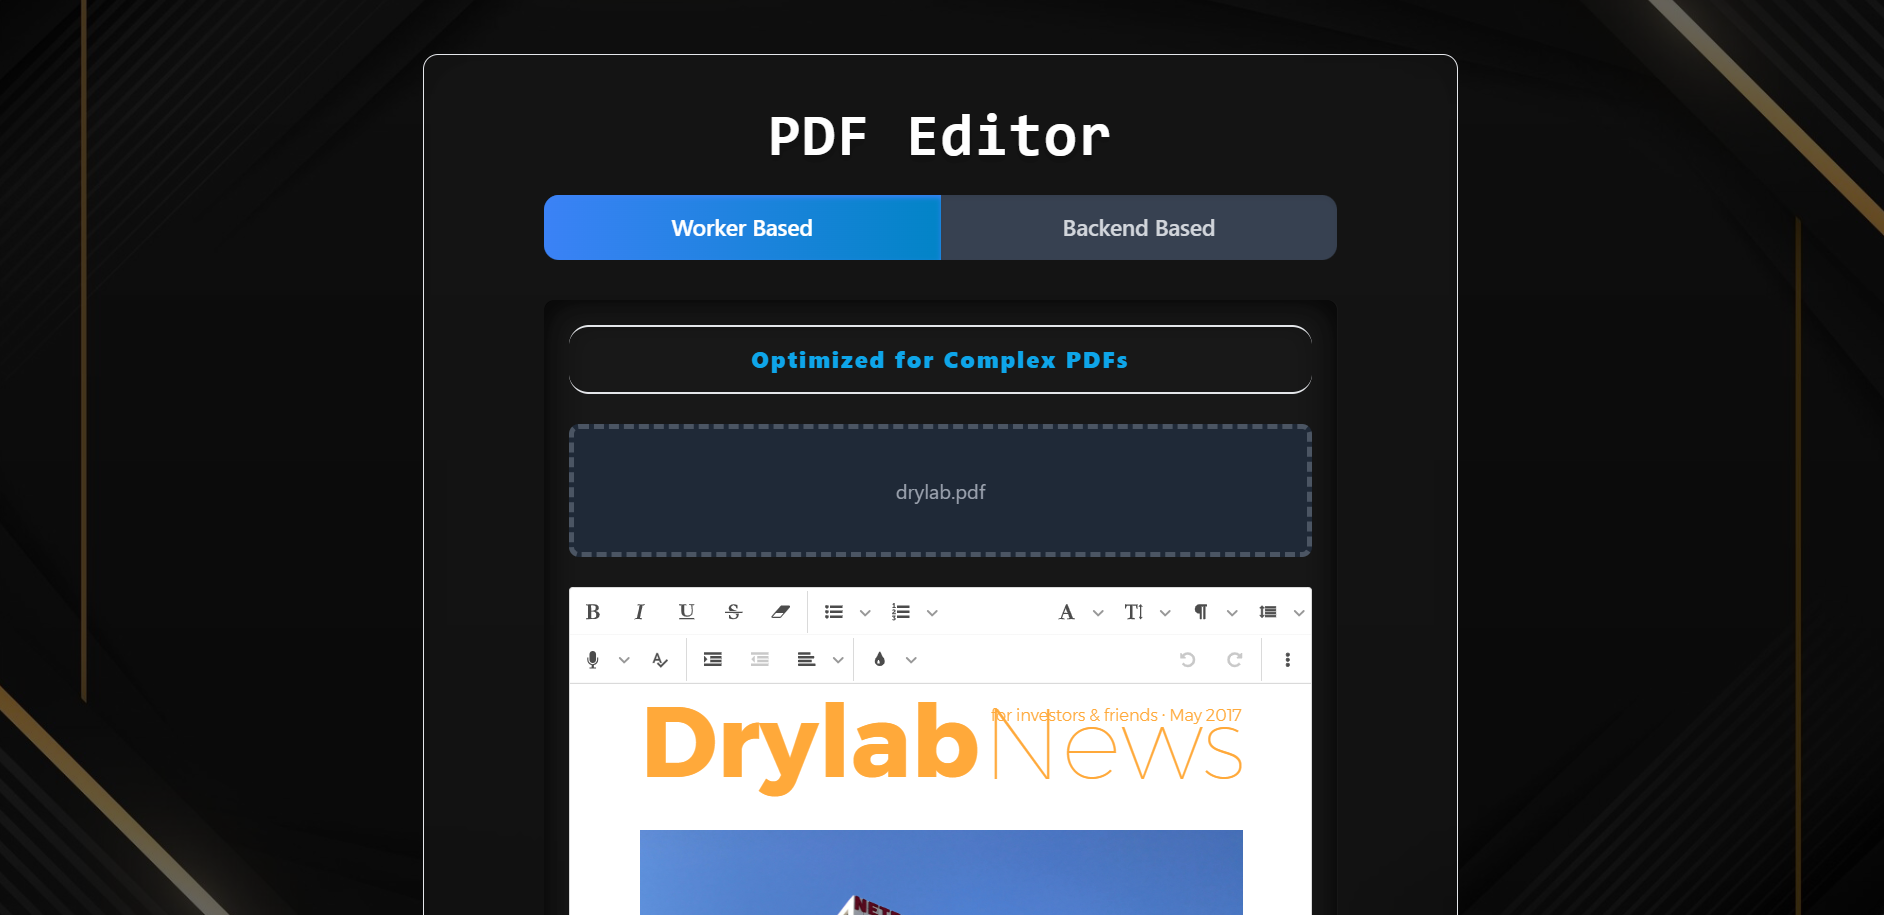
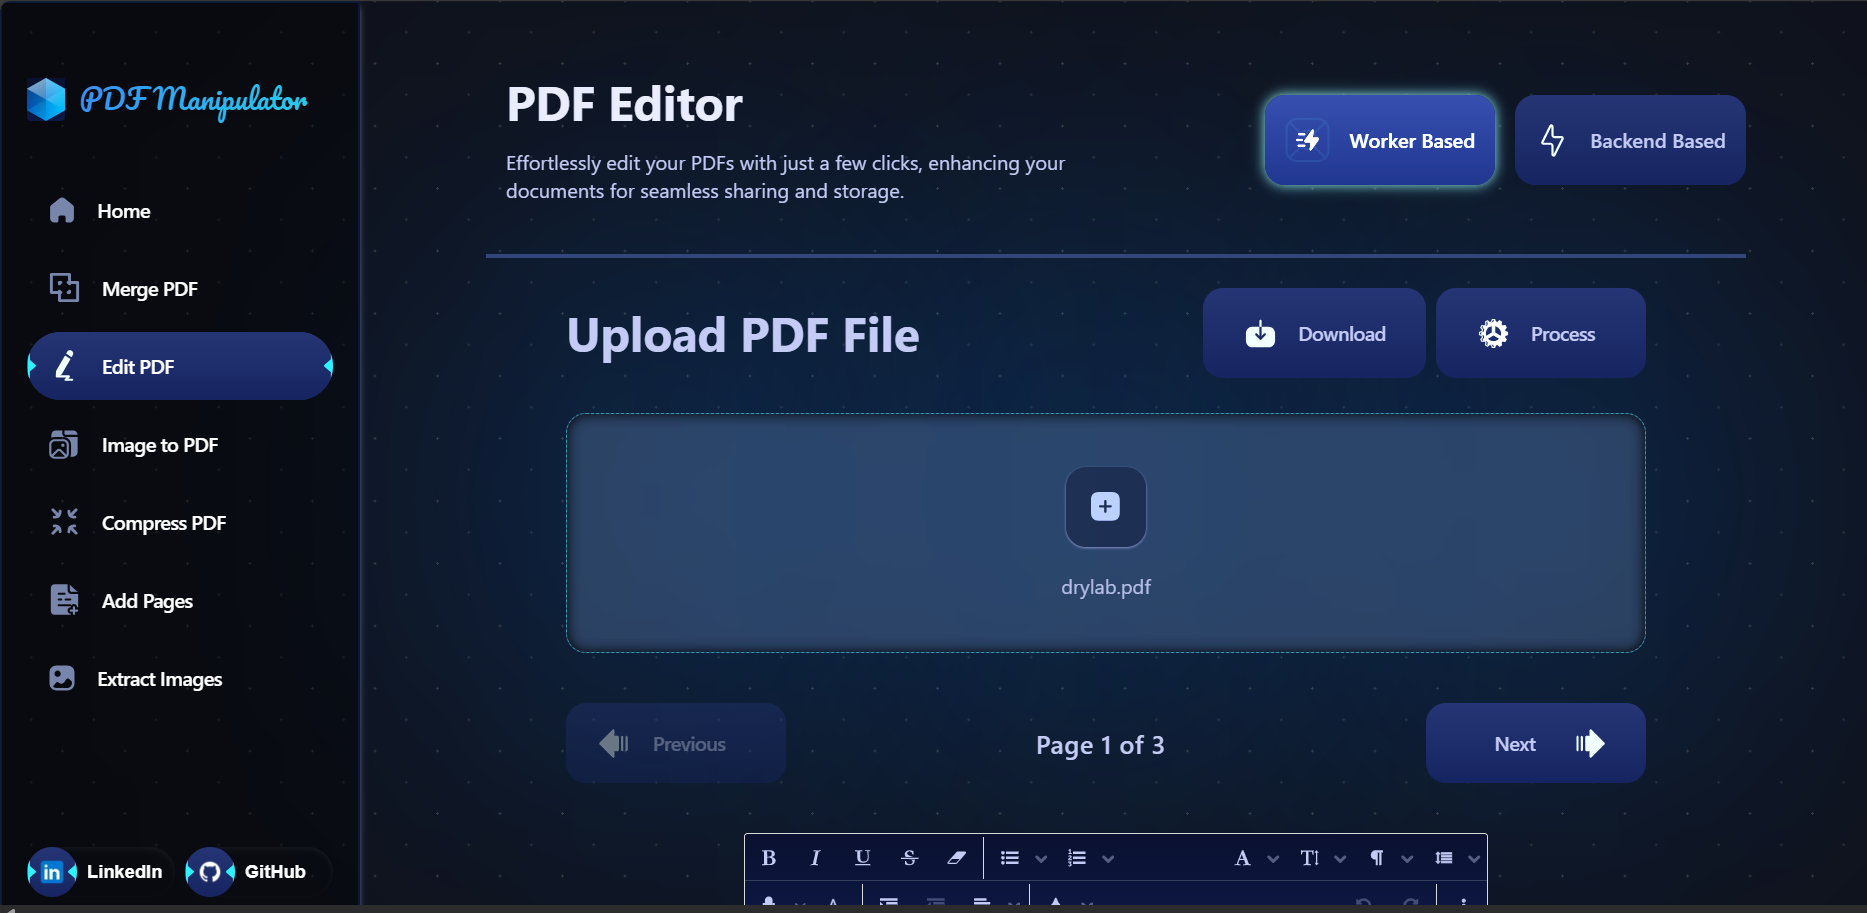
changed look of edit pdf Complx mode (Worker Based) and added live image also fixed a bug

diff --git a/components/Core/PDFEditor/PDFEditorComplex.jsx b/components/Core/PDFEditor/PDFEditorComplex.jsx
@@ -1,94 +1,12 @@
 import React, { useEffect, useRef, useState } from 'react';
 import dynamic from 'next/dynamic';
 const JoditEditor = dynamic(() => import('jodit-react'), { ssr: false });
-import "jodit";
 import * as pdfjsLib from 'pdfjs-dist/webpack';
 import jsPDF from 'jspdf';
 import html2canvas from 'html2canvas';
 import { useToast } from '../../../hooks/use-toast';
 import Image from 'next/image';
 
-const copyStringToClipboard = function(str) {
-  var el = document.createElement("textarea");
-  el.value = str;
-  el.setAttribute("readonly", "");
-  el.style = { position: "absolute", left: "-9999px" };
-  document.body.appendChild(el);
-  el.select();
-  document.execCommand("copy");
-  document.body.removeChild(el);
-};
-
-
-const buttons = [
-  "undo",
-  "redo",
-  "|",
-  "bold",
-  "strikethrough",
-  "underline",
-  "italic",
-  "|",
-  "superscript",
-  "subscript",
-  "|",
-  "align",
-  "|",
-  "ul",
-  "ol",
-  "outdent",
-  "indent",
-  "|",
-  "font",
-  "fontsize",
-  "brush",
-  "paragraph",
-  "|",
-  "image",
-  "link",
-  "table",
-  "|",
-  "hr",
-  "eraser",
-  "copyformat",
-  "|",
-  "fullsize",
-  "selectall",
-  "print",
-  "|",
-  "source",
-  "|",
-  {
-    name: "copyContent",
-    tooltip: "Copy HTML to Clipboard",
-    iconURL: "images/copy.png",
-    exec: function(editor) {
-      let html = editor.value;
-      copyStringToClipboard(html);
-    }
-  }
-];
-
-const editorConfig = {
-  readonly: false,
-  toolbar: true,
-  spellcheck: true,
-  language: "en",
-  toolbarButtonSize: "medium",
-  toolbarAdaptive: false,
-  showCharsCounter: true,
-  showWordsCounter: true,
-  showXPathInStatusbar: false,
-  askBeforePasteHTML: true,
-  askBeforePasteFromWord: true,
-  //defaultActionOnPaste: "insert_clear_html",
-  buttons: buttons,
-  uploader: {
-    insertImageAsBase64URI: true
-  },
-  width: 800,
-  height: 842
-};
 const PDFEditorComplex = () => {
   const [htmlContent, setHtmlContent] = useState([]);
   const [currentPage, setCurrentPage] = useState(0);
@@ -533,15 +451,15 @@ const PDFEditorComplex = () => {
             </div>
           </div>
         </div>
-        {isContinueClicked && htmlContent.length > 0 && <div className="flex px-16  sm-320:-mt-44 sm-374:-mt-40 justify-between items-center md:mt-4 flex-col sm:flex-row">
+        {isContinueClicked && htmlContent.length > 0 && <div className="flex px-16  sm-320:-mt-44 sm-374:-mt-40 justify-between items-center md:mt-0 flex-col sm:flex-row">
           <button
             disabled={currentPage === 0}
             onClick={handlePreviousPage}
             className="flex items-center justify-normal md:justify-end disabled:opacity-40 disabled:cursor-not-allowed rounded-2xl group"
           >
-            <span className="relative min-w-32 md:min-w-48 px-4 md:px-8 flex justify-around items-center w-fit before:g7 g4 min-h-fit py-2 rounded-2xl before:absolute before:inset-0 before:opacity-0 before:transition-opacity before:duration-500 before:content-[''] group-hover:before:opacity-100 overflow-hidden">
+            <span className="relative min-w-32 md:min-w-44 px-4 md:px-6 flex justify-around items-center w-fit before:g7 g4 min-h-fit py-1 rounded-2xl before:absolute before:inset-0 before:opacity-0 before:transition-opacity before:duration-500 before:content-[''] group-hover:before:opacity-100 overflow-hidden">
               <Image
-                src={`images/process.svg`}
+                src={`images/previous.svg`}
                 alt="logo"
                 width={28}
                 height={28}
@@ -552,22 +470,23 @@ const PDFEditorComplex = () => {
               </span>
             </span>
           </button>
-          <span className="text-[16px] font-semibold text-p5 mt-2 sm:mt-0">{`Page ${currentPage + 1} of ${numPages}`}</span>
+          <span className="text-[20px] tracking-wide font-semibold text-p5 mt-2 sm:mt-0">{`Page ${currentPage + 1} of ${numPages}`}</span>
           <button
             disabled={currentPage === numPages - 1} onClick={handleNextPage}
             className="flex pl-2  items-center justify-normal md:justify-end disabled:opacity-40 disabled:cursor-not-allowed rounded-2xl group"
           >
-            <span className="relative px-4 md:px-8 min-w-32 md:min-w-48 flex justify-around items-center w-fit before:g7 g4 min-h-fit py-2 rounded-2xl before:absolute before:inset-0 before:opacity-0 before:transition-opacity before:duration-500 before:content-[''] group-hover:before:opacity-100 overflow-hidden">
+            <span className="relative px-4 md:px-6 min-w-32 md:min-w-44 flex justify-around items-center w-fit before:g7 g4 min-h-fit py-1 rounded-2xl before:absolute before:inset-0 before:opacity-0 before:transition-opacity before:duration-500 before:content-[''] group-hover:before:opacity-100 overflow-hidden">
+              <span className="font-semibold text-16 flex gap-4 p-4 pl-6 text-p5">
+                Next
+              </span>
               <Image
-                src={`images/process.svg`}
+                src={`images/next.svg`}
                 alt="logo"
                 width={28}
                 height={28}
                 className="brightness-200"
               />
-              <span className="font-semibold text-16 flex gap-4 p-4 pr-6 text-p5">
-                Next
-              </span>
+
             </span>
           </button>
         </div>}
@@ -579,42 +498,28 @@ const PDFEditorComplex = () => {
           <div className="flex justify-center items-center sm-320:scale-[49%] sm-374:scale-[57%] sm:scale-75 md:scale-[100%] lg:scale-[100%] xl:scale-[100%]">
             <JoditEditor
               ref={editorRef}
-              style={{ maxWidth: editorConfig.width, margin: "0 auto" }}
+              style={{ margin: '0 auto' }}
               value={htmlContent[currentPage]}
               config={{
-                editorConfig,
+                readonly: false,
+                toolbar: true,
+                language: 'en',
+                buttons: ["undo", "redo", "|", "bold", "strikethrough", "underline", "italic", "|", "superscript", "subscript",
+                  "|", "align", "|", "ul", "ol", "outdent", "indent", "|", "font", "fontsize", "brush",
+                  "paragraph", "|", "image", "link", "table", "|", "hr", "eraser", "copyformat",
+                  "|", "fullsize", "selectall", "print", "|", "source", "|",],
                 height: height,
                 width: width,
-                editHTMLDocumentMode: true,
-                // theme: 'dark', 
-                style: {
-                  background: 'rgba(0, 55, 155, 0.3)', 
-                  borderColor:"red",
-                  border:"1px red solid"
+                containerStyle: {
+                  '.jodit-toolbar-editor-collection': {
+                    background: 'transparent', // Make toolbar background transparent
+                  },
                 },
-                toolbarButtonSize: 'large', 
               }}
-              // style={{
-              //   display: 'block',
-              //   minHeight: '400px',
-              //   width: '100%',
-              //   padding: '10px',
-              //   // background: 'rgba(255, 255, 255, 0.5)', // White background with 50% opacity
-              //   color: 'black', // Black text for readability
-              //   borderColor: '#444', // Dark border color
-              // }}
-              className="border  border-gray-700 rounded-lg w-full sm:w-3/4 lg:w-2/3 xl:w-1/2 jodit-dark-theme"
-              onChange={() => { }}
+              className="jodit-editor-container border border-red-500 rounded-lg w-full sm:w-3/4 lg:w-2/3 xl:w-1/2 jodit-dark-theme"
+              onChange={(newContent) => console.log(newContent)}
             />
-
           </div>
-
-          {/* <button
-          onClick={downloadPdf}
-          className="px-6 py-4 w-full mt-4 bg-green-600 text-white font-mono shadow-lg tracking-wide hover:bg-green-700 transition duration-300 font-extrabold ease-in-out disabled:opacity-50"
-        >
-          Download
-        </button> */}
         </div>
       )}
     </div>

diff --git a/components/Core/PDFEditor/PDFEditor.jsx b/components/Core/PDFEditor/PDFEditor.jsx
@@ -23,7 +23,7 @@ function PDFEditor() {
           className={`flex w-full gap-4 justify-center lg:justify-end rounded-2xl group mt-4 lg:mt-0`}
         >
           <span onClick={() => toggleImplementation(false)}
-            className={`relative cursor-pointer ${isBackendBased?"":"brightness-150"} flex justify-around items-center w-fit before:g7 g4 min-h-fit px-4 py-2 rounded-2xl before:absolute before:inset-0 before:opacity-0 before:transition-opacity before:duration-500 before:content-[''] group-hover:before:opacity-100 overflow-hidden`}>
+            className={`relative cursor-pointer ${isBackendBased ? "" : "brightness-150 shadow-[0_0_10px_rgba(0,0,0,1)] shadow-blue-400"} flex justify-around items-center w-fit before:g7 g4 min-h-fit px-4 py-2 rounded-2xl before:absolute before:inset-0 before:opacity-0 before:transition-opacity before:duration-500 before:content-[''] group-hover:before:opacity-100 overflow-hidden`}>
             <Image
               src="/images/zap.svg"
               alt="logo"
@@ -36,7 +36,7 @@ function PDFEditor() {
             </span>
           </span>
           <span onClick={() => toggleImplementation(true)}
-            className={`relative ${isBackendBased?"brightness-150":""} cursor-pointer flex justify-around items-center w-fit before:g7 g4 min-h-fit px-4 py-2 rounded-2xl before:absolute before:inset-0 before:opacity-0 before:transition-opacity before:duration-500 before:content-[''] group-hover:before:opacity-100 overflow-hidden`}>
+            className={`relative ${isBackendBased ? "brightness-150 shadow-[0_0_10px_rgba(0,0,0,1)] shadow-blue-400 " : ""} cursor-pointer flex justify-around items-center w-fit before:g7 g4 min-h-fit px-4 py-2 rounded-2xl before:absolute before:inset-0 before:opacity-0 before:transition-opacity before:duration-500 before:content-[''] group-hover:before:opacity-100 overflow-hidden`}>
             <Image
               src="/images/backend.svg"
               alt="logo"

diff --git a/app/globals.css b/app/globals.css
@@ -11,11 +11,62 @@
   }
 }
 
+.jodit-react-container .jodit-container .jodit .jodit_theme_default .jodit-wysiwyg_mode{
+  background-color: #ffffff00 !important;
+}
+.jodit-toolbar-editor-collection .jodit-toolbar-editor-collection_mode_horizontal .jodit-toolbar-editor-collection_size_middle
+{
+  background-color: #ffffff00 !important;
+}
+
+
+
+.jodit-toolbar__box {
+  background: linear-gradient(#0a1130, #0d1845) !important;
+}
+
+.jodit-container .jodit-workplace {
+  background-color: rgba(255, 255, 255, 0.32) !important;
+  color: black;
+  border: none  !important;
+  max-height: 100%;
+}
+
+.jodit-status-bar, a{
+  background: linear-gradient(#0a1130, #0d1845) !important;
+  border-radius: 0 0 3px 3px;
+  color: #C4CBF5 !important;
+}
+
+.jodit-container:not(.jodit_inline){
+  background-color: transparent !important;
+}
+
+
+svg.jodit-icon .jodit, .jodit-container, .jodit-container .jodit-icon{
+  height: auto;
+  isolation: isolate;
+  stroke: #C4CBF5 !important;
+  color: #C4CBF5 !important;
+  background: 50% no-repeat;
+  background-size: contain;
+  overflow: visible;
+  fill: #C4CBF5;
+}
+
+.jodit-toolbar-button__button:hover:not([disabled]), .jodit-toolbar-button__trigger:hover:not([disabled]) {
+  background:linear-gradient(#0a1130c1, #0d1845a4);
+  opacity: 1;
+  outline: 0;
+}
+
+
+
 .ql-container {
   min-height: auto;
   border: none !important; 
   fill: none;
-  background-color: transparent;
+  background-color: transparent ;
   color: black;
   margin: 0.5rem;
   max-width: 100%;

diff --git a/app/layout.tsx b/app/layout.tsx
@@ -3,7 +3,7 @@ import "./globals.css";
 import React from "react";
 import { ActiveLinkProvider } from "./context/ContextProvider";
 import Sidebar from "../components/Navigation/Sidebar";
-import MobileNav from "../components/navigation/MobileNav";
+import MobileNav from "../components/Navigation/MobileNav";
 import { IBM_Plex_Sans } from "next/font/google";
 import { twMerge } from "tailwind-merge";
 import clsx, { ClassValue } from "clsx";
